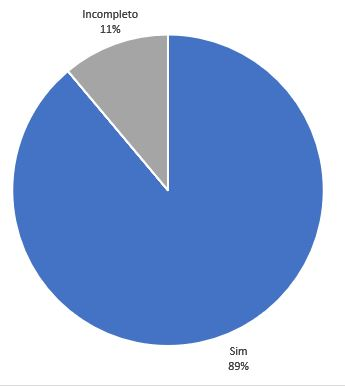
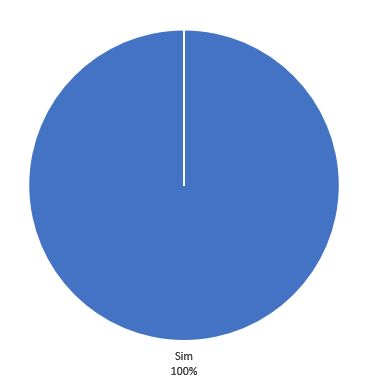
verificacao entrega 3 grupo 1 - cenarios

diff --git a/docs/verificacao/Grupo-01/Entrega-03/cenarios.md b/docs/verificacao/Grupo-01/Entrega-03/cenarios.md
@@ -10,7 +10,7 @@ A metodologia e o planejamento da verificação desse artefato foram definidos n
 
 A abordagem adotada neste documento consiste em uma inspeção por meio de checklist. Cada elemento do checklist será analisado, e caso seja identificada alguma divergência, ela será devidamente documentada na seção destinada aos problemas encontrados. No total, serão empregados dois tipos de checklists: um de caráter abrangente, que foi destinado a todos os artefatos do planejamento da verificação, e outro específico, direcionado exclusivamente a esse artefato em foco.
 
-Nesse documento específico, a verificação foi feita em dupla por [Zenilda Vieira](https://github.com/zenildavieira) e [Gabriel Rosa](https://github.com/gabrielrosa09). O link do vídeo dessa verificação encontra-se no final do documento, após a análise dos problemas encontrados.
+Nesse documento específico, a verificação foi feita em dupla por [Zenilda Vieira](https://github.com/zenildavieira) e [Gabriel Rosa](https://github.com/gabrielrosa09). O link do vídeo dessa verificação encontra-se no final do documento, após a análise dos problemas encontrados. Foi feita também a entrega da inspeção para o autor do documento. Como esse documento foi feito por todos os integrantes do grupo, foi o escolhido o integrante [Gabriel Zaranza](https://github.com/GZaranza) para representar o grupo 01 e discutir os problemas encontrados. Por serem problemas simples, ficou acordado que as correções serão feitas por quem executou a verificação e apresentadas posteriormente ao grupo.
 
 ## Apresentação dos Dados
 
@@ -60,7 +60,7 @@ Na tabela 1, encontram-se os resultados obtidos na verificação do checklist ge
     <tr>
       <td>6</td>
       <td>Todas as tabelas possuem legendas e fontes padronizadas? [2]</td>
-      <td>Incompleto</td>
+      <td>Sim</td>
     </tr>
     <tr>
       <td>7</td>
@@ -183,6 +183,19 @@ No vídeo 1 a seguir é possível assistir a verificação do artefato que foi f
 <p style="text-align: center"><a href="https://www.youtube.com/watch?v=GrWg2NFjubo" target="blanket"><b>Vídeo 1:</b> Verificação do artefato em estudo</a></p>
 
 <iframe width="560" height="315" src="https://www.youtube.com/embed/GrWg2NFjubo" title="Verificação" frameborder="0" allow="accelerometer; autoplay; clipboard-write; encrypted-media; gyroscope; picture-in-picture" allowfullscreen></iframe>
+
+<font size="3"><p style="text-align: center">Fonte: <a href="https://github.com/zenildavieira">Zenilda Vieira</a>, 2023</p></font>
+</div>
+
+## Vídeo da Consolidação da Inspeção e da Correção
+
+No vídeo 2 é possível assistir a consolidação da inspeção do artefato com o integrante do grupo [Gabriel Zaranza](https://github.com/GZaranza).
+
+<div align="center">
+
+<p style="text-align: center"><a href="https://www.youtube.com/watch?v=905NiYArGxM" target="blanket"><b>Vídeo 2:</b> Consolidação da Inspeção e da Correção</a></p>
+
+<iframe width="560" height="315" src="https://www.youtube.com/embed/905NiYArGxM" title="Consolidação da Inspeção" frameborder="0" allow="accelerometer; autoplay; clipboard-write; encrypted-media; gyroscope; picture-in-picture" allowfullscreen></iframe>
 
 <font size="3"><p style="text-align: center">Fonte: <a href="https://github.com/zenildavieira">Zenilda Vieira</a>, 2023</p></font>
 </div>
